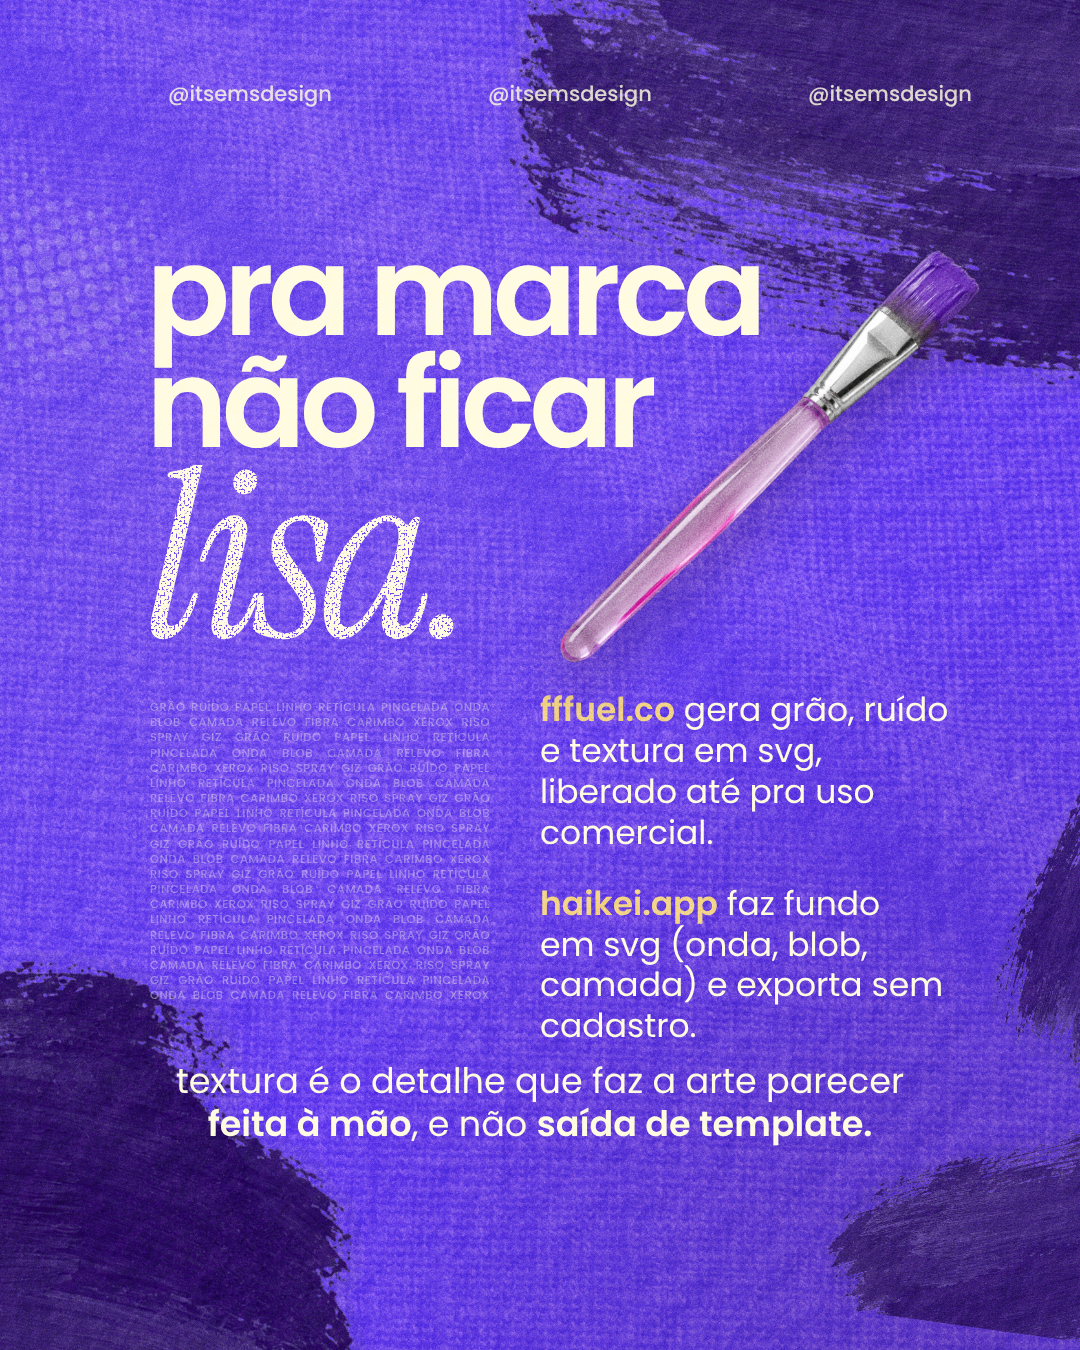
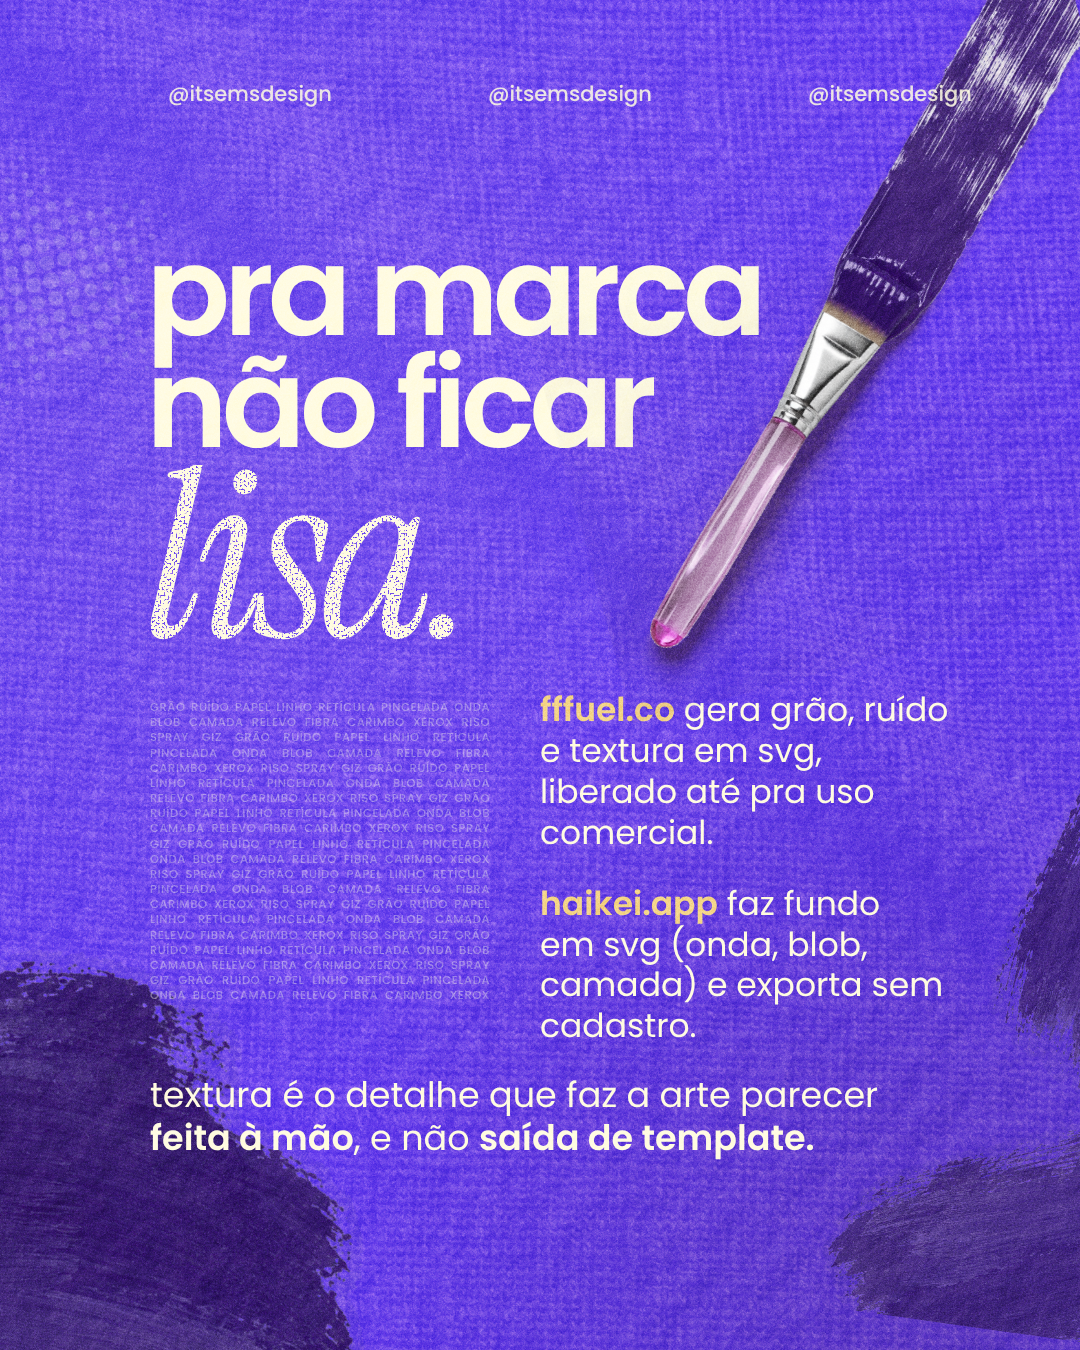
EMS figurinhas raras v4: pincel pintando a pincelada na página 5 e fecho alinhado ao título
Claude-Session: https://claude.ai/code/session_01CmCiKB9wFc4qQovptupnZT

Changed region(s): [[0.4583, 0.0, 1.0, 0.4978], [0.1222, 0.7778, 0.825, 0.8711]]

diff --git a/Emi/ems-album-figurinhas/projeto/carrossel.html b/Emi/ems-album-figurinhas/projeto/carrossel.html
@@ -217,7 +217,8 @@ const FOLHA = `<div class="abs" style="inset:0;background:var(--ivory-2)"></div>
 
 /* ================= 5 · textura — ref 3 da Nicole Holz, lâmina 5 (título forte, pinceladas tom sobre tom saindo da borda,
    objeto por cima do fim do título, texto em coluna à direita e bloco miúdo de texto-textura à esquerda) ================= */
-const PINC = 'filter:brightness(.4) saturate(1.35) contrast(1.1)';
+/* mesma tinta do pincel-pintando (#371D6C), pra parecer que todas as pinceladas saíram do mesmo pincel */
+const PINC = 'filter:brightness(.46) saturate(1.3) contrast(1.05)';
 (() => {
   const p = A.paginas[3], [s1, s2] = p.sites;
   /* carimbo gasto: furinhos de ruído na palavra "lisa" (a única palavra com textura é justamente a "lisa") */
@@ -225,15 +226,16 @@ const PINC = 'filter:brightness(.4) saturate(1.35) contrast(1.1)';
   const miudo = Array(14).fill(p.miudo).join(' ');
   const par = (s) => `<p style="margin:0 0 30px"><b style="font-weight:600;color:var(--manteiga)">${s.nome}</b> ${s.pra}</p>`;
   lamina(4, `
-    <img class="abs" src="texturas/pincelada-1.png" style="left:500px;top:-150px;width:780px;transform:scaleX(-1) rotate(10deg);${PINC}">
     <img class="abs" src="texturas/pincelada-2.png" style="left:860px;top:640px;width:330px;transform:rotate(8deg);${PINC};opacity:.9">
     <img class="abs" src="${estrelaReticula(340, css('ivory'))}" style="left:-120px;top:110px;width:340px;opacity:.16;transform:rotate(-14deg)">
-    ${[150, 470, 790].map((x) => `<div class="abs" style="left:${x}px;top:78px;width:200px;text-align:center;font-family:var(--sans);font-weight:500;font-size:21px;color:rgba(255,251,222,.82)">@itsemsdesign</div>`).join('')}
     <div class="abs" id="tit5" style="left:146px;top:236px;font-family:var(--sans);font-weight:600;font-size:124px;line-height:.9;letter-spacing:-.05em;color:var(--ivory);white-space:nowrap">pra marca<br>não ficar<br><i id="lisa" style="display:inline-block;font-family:var(--serif);font-weight:400;font-size:236px;line-height:.78;letter-spacing:-.03em;margin-top:6px;-webkit-mask-image:var(--mk-gasto);-webkit-mask-size:260px;mask-image:var(--mk-gasto);mask-size:260px">lisa.</i></div>
     <div class="abs" style="left:150px;top:700px;width:340px;height:300px;overflow:hidden;font-family:var(--sans);font-weight:500;font-size:11.5px;line-height:1.32;letter-spacing:.05em;text-transform:uppercase;text-align:justify;color:rgba(255,251,222,.34)" data-sem-cola>${miudo}</div>
     <div class="abs" style="left:540px;top:690px;width:420px;font-family:var(--sans);font-size:33px;line-height:1.24;color:var(--ivory)">${par(s1)}${par(s2)}</div>
-    <div class="abs" style="left:150px;top:1060px;width:780px;text-align:center;font-family:var(--sans);font-size:35px;line-height:1.22;color:var(--ivory)">${p.fecho}</div>
-    <img class="objeto" id="pincel" src="recortes/pincel.png" style="left:560px;top:250px;width:420px">
+    <div class="abs" style="left:150px;top:1074px;width:800px;font-family:var(--sans);font-size:35px;line-height:1.22;color:var(--ivory)">${p.fecho}</div>
+    <!-- pincel pintando: a pincelada vem do canto de cima e termina embaixo das cerdas (ponto 570,420 da foto) -->
+    <img class="abs" id="pincel" src="recortes/pincel-pintando.png" style="left:528px;top:33px;width:614px;transform-origin:342px 252px;transform:rotate(-15deg);filter:drop-shadow(0 3px 4px rgba(42,20,51,.22))">
+    ${[150, 470, 790].map((x) => `<div class="abs" style="left:${x}px;top:78px;width:200px;text-align:center;font-family:var(--sans);font-weight:500;font-size:21px;color:rgba(255,251,222,.86)">@itsemsdesign</div>`).join('')}
+
   `, `<div class="abs" style="inset:0;background:var(--violeta-2)"></div>
       <img class="abs" src="texturas/linho-violeta.png" style="left:-40px;top:-50px;width:1160px;height:1450px;object-fit:cover;filter:grayscale(1) contrast(1.5);mix-blend-mode:soft-light;opacity:.7">
       <div class="abs" style="inset:0;background:radial-gradient(120% 90% at 20% 30%, rgba(255,251,222,.10), transparent 60%), radial-gradient(90% 80% at 90% 100%, rgba(42,20,51,.28), transparent 70%)"></div>`, 'grao-forte');
